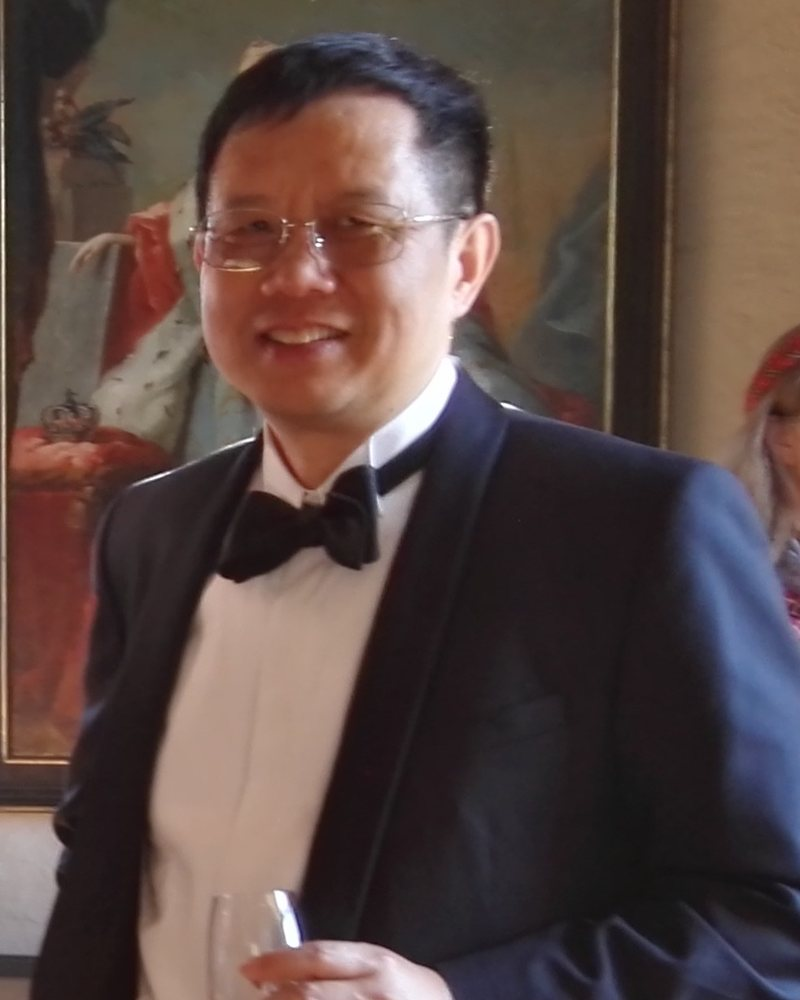
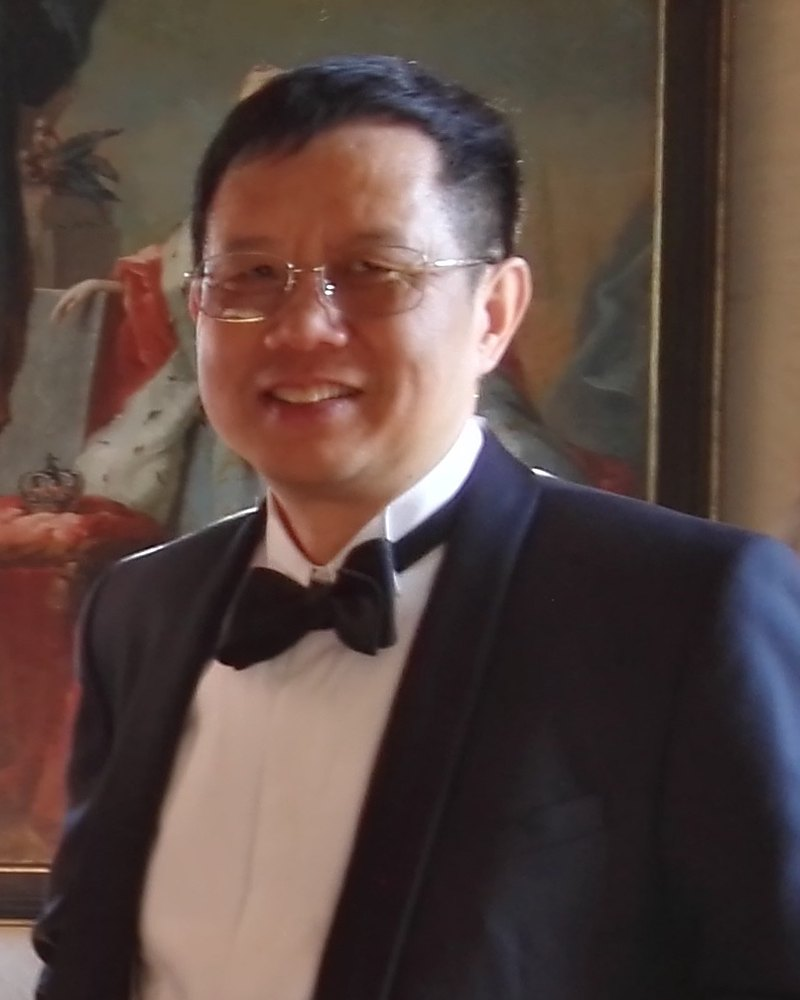
Refine hero: tighter portrait crop, offset frame, shadow, contours moved

diff --git a/index.html b/index.html
@@ -52,23 +52,25 @@
   }
   .hero-meta{margin-top:34px;display:flex;flex-wrap:wrap;gap:10px 26px;font-size:.92rem;color:var(--slate)}
   .hero-meta a{text-decoration:none;border-bottom:1px solid var(--rule)}
-  .hero-grid{display:grid;gap:36px;align-items:end}
+  .hero-grid{display:grid;gap:44px;align-items:center}
   @media(min-width:760px){
-    .hero-grid{grid-template-columns:minmax(0,1fr) 300px;gap:56px}
+    .hero-grid{grid-template-columns:minmax(0,1fr) 300px;gap:80px}
     .hero-grid .portrait{grid-column:2;grid-row:1;justify-self:end}
     .hero-grid .hero-text{grid-column:1;grid-row:1}
   }
   .portrait{
-    position:relative;margin:0;width:100%;max-width:180px;aspect-ratio:4/5;
-    background:var(--paper-2);border:1px solid var(--rule);border-radius:2px;overflow:hidden
+    position:relative;isolation:isolate;margin:0 18px 18px 0;width:100%;max-width:200px;aspect-ratio:4/5
   }
   @media(min-width:760px){.portrait{max-width:300px}}
-  .portrait::before{
-    content:"XT";position:absolute;inset:0;display:grid;place-items:center;
-    font-family:"Bricolage Grotesque",sans-serif;font-weight:800;font-size:4.5rem;
-    letter-spacing:-.04em;color:var(--rule)
+  .portrait img{
+    display:block;width:100%;height:100%;object-fit:cover;border-radius:3px;
+    filter:saturate(.88) contrast(1.03);
+    box-shadow:0 30px 50px -28px rgba(16,50,47,.5),0 2px 8px rgba(16,50,47,.12)
   }
-  .portrait img{position:relative;display:block;width:100%;height:100%;object-fit:cover}
+  .portrait::after{
+    content:"";position:absolute;inset:0;transform:translate(18px,18px);
+    border:1.5px solid var(--ochre);border-radius:3px;z-index:-1;pointer-events:none
+  }
 
   /* ---------- photographs ---------- */
   .cap .ill{display:block;width:calc(100% + 52px);height:auto;margin:-28px -26px 20px;aspect-ratio:2/1;object-fit:cover;background:var(--rule)}
@@ -143,7 +145,7 @@
 <header>
   <svg class="contours" viewBox="0 0 1200 520" preserveAspectRatio="xMidYMid slice" aria-hidden="true">
     <g fill="none" stroke="#10322F" stroke-opacity=".16" stroke-width="1">
-      <g transform="translate(880 250)">
+      <g transform="translate(1010 300)">
         <path d="M0-206C86-206 176-146 190-56 204 34 150 128 58 176-34 224-140 200-182 122-224 44-190-70-124-142-88-182-44-206 0-206Z"/>
         <path transform="scale(.86)" d="M0-206C86-206 176-146 190-56 204 34 150 128 58 176-34 224-140 200-182 122-224 44-190-70-124-142-88-182-44-206 0-206Z"/>
         <path transform="scale(.72)" d="M0-206C86-206 176-146 190-56 204 34 150 128 58 176-34 224-140 200-182 122-224 44-190-70-124-142-88-182-44-206 0-206Z"/>
@@ -161,8 +163,7 @@
 
   <div class="wrap hero hero-grid">
     <figure class="portrait">
-      <!-- Drop your photo at assets/portrait.jpg (portrait orientation, ~800×1000px). Until then the initials tile shows. -->
-      <img src="assets/portrait.jpg" alt="Portrait of Xue-Cheng Tai" onerror="this.remove()">
+      <img src="assets/portrait.jpg" alt="Portrait of Xue-Cheng Tai" width="800" height="1000">
     </figure>
     <div class="hero-text">
       <p class="role">Chief Scientist · NORCE Norwegian Research Centre</p>
